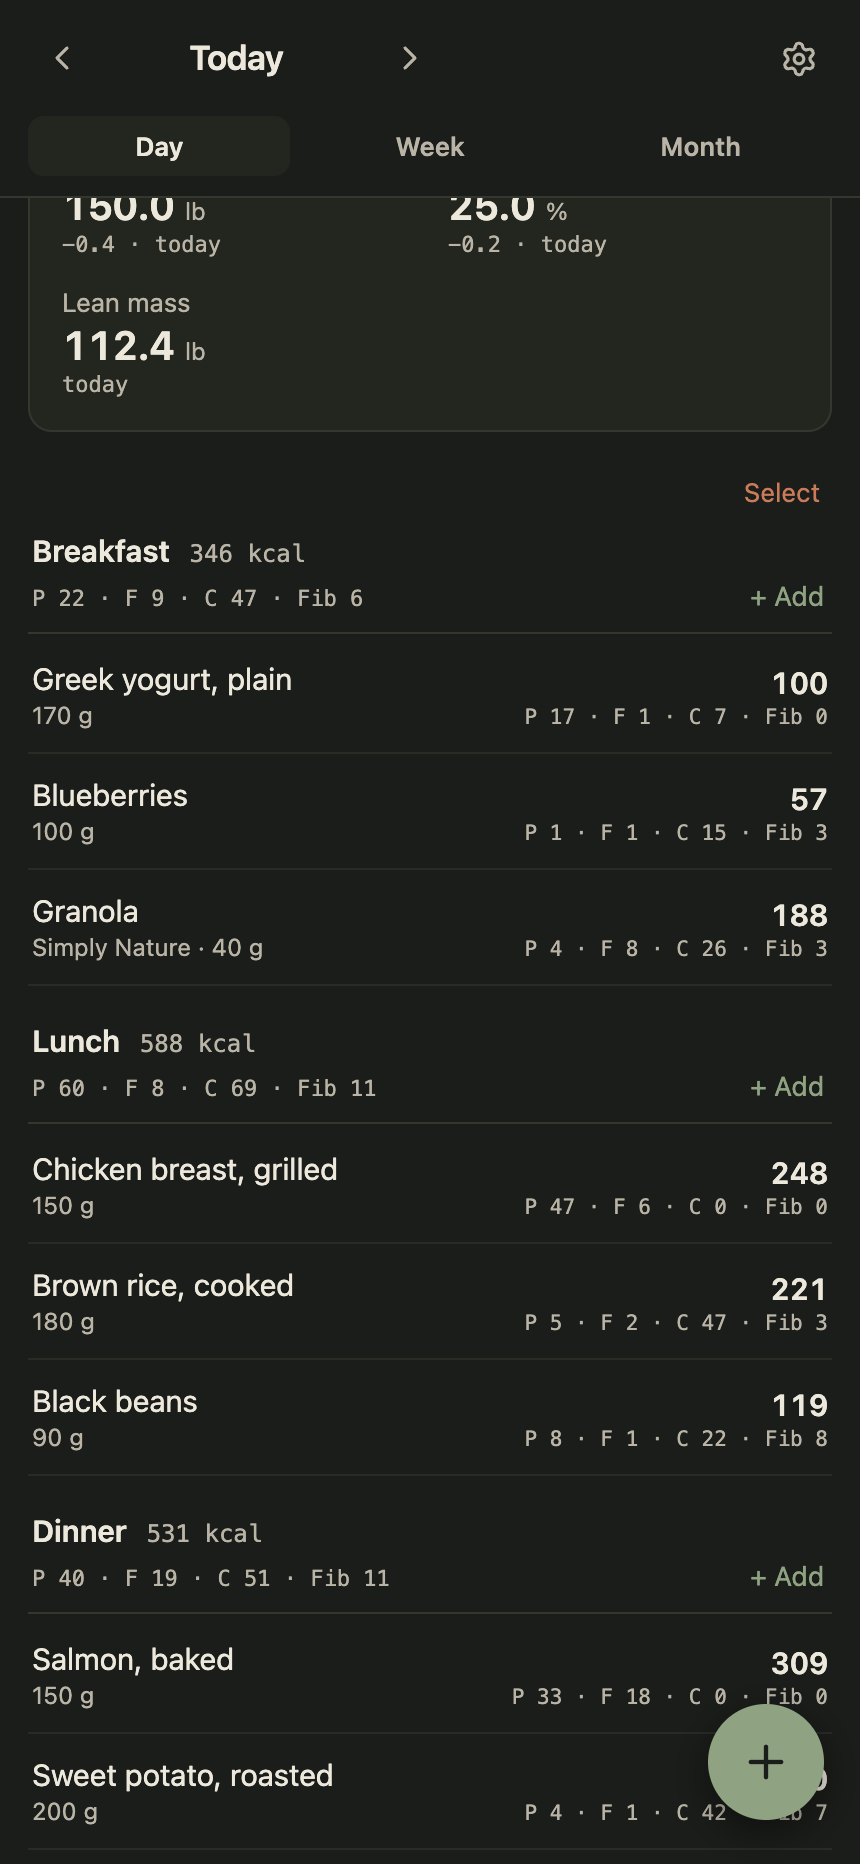
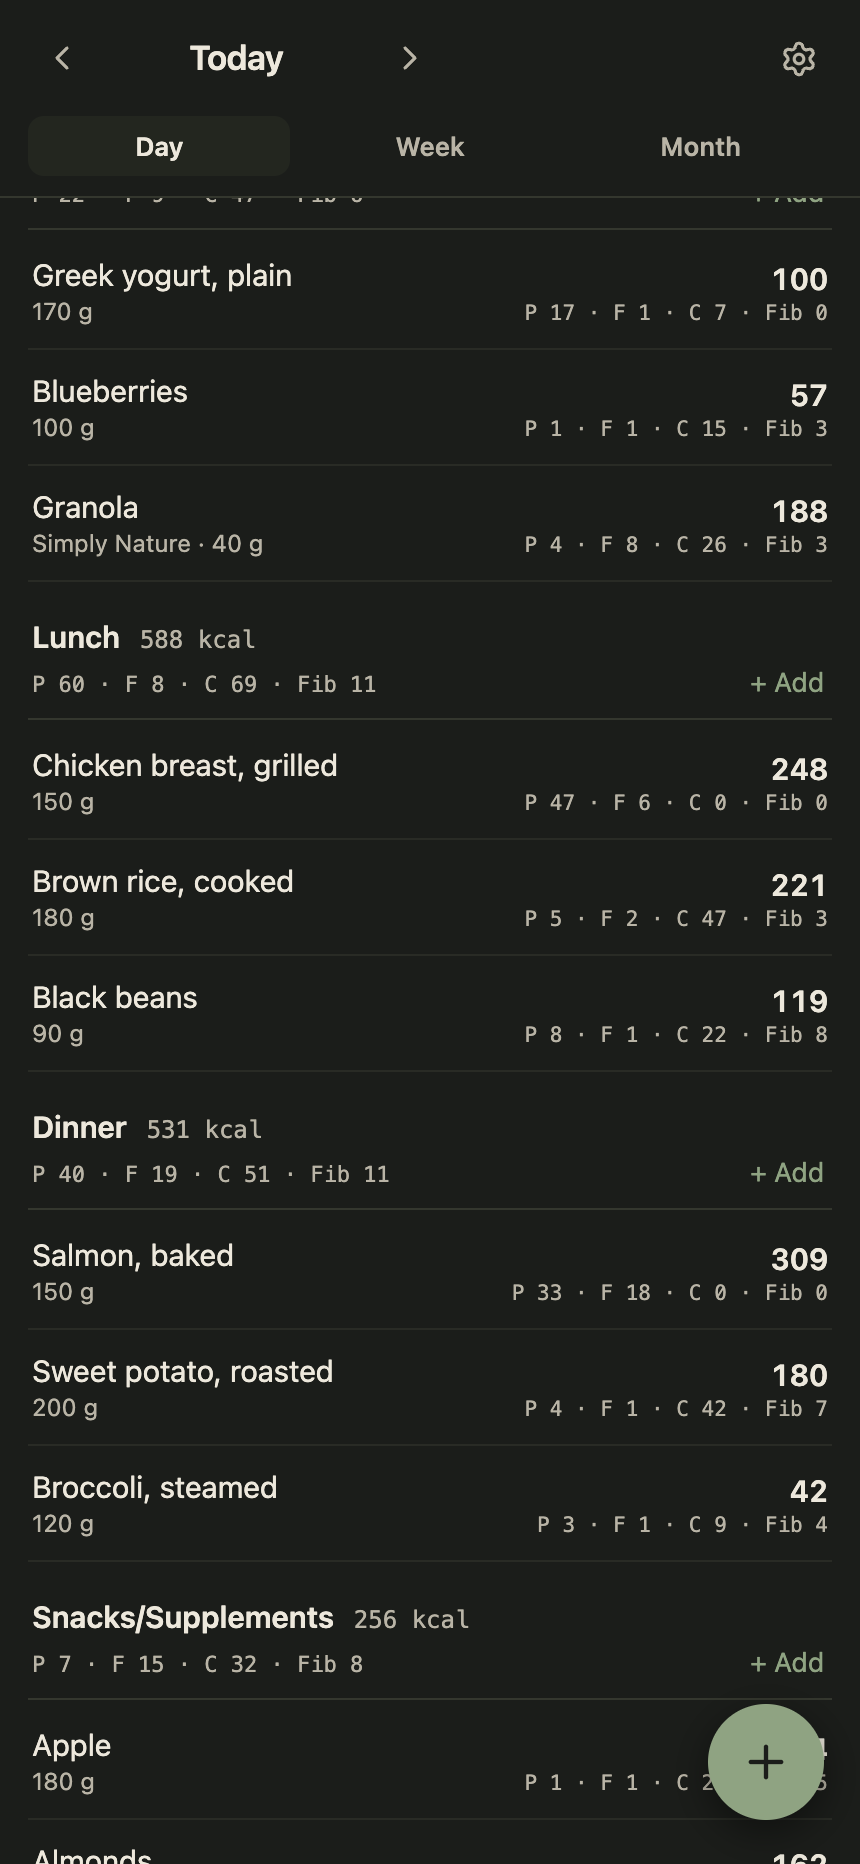
chore: drop the Withings script and the weight wording in the README

diff --git a/scripts/seed-demo.ts b/scripts/seed-demo.ts
@@ -8,8 +8,7 @@ import type { Meal, Nutrients } from '../src/types.ts'
 /**
  * Fills the development database (.data-dev, the one `npm run dev` uses)
  * with a week of demo data so the app can be screenshotted with something
- * on screen: meals with their macros, water, workouts, a few body readings
- * and some saved foods. Run with `npm run seed:demo`; it starts from an
+ * on screen: meals with their macros, water, workouts and some saved foods. Run with `npm run seed:demo`; it starts from an
  * empty database every time. Nothing here is anyone's real log.
  */
 
@@ -80,17 +79,6 @@ for (const [back, miles] of [[0, 1.4], [1, 2.1], [2, 1.2], [3, 1.8], [5, 2.4], [
 store.addAlcohol(day(2), 'wine')
 store.addAlcohol(day(5), 'beer')
 
-// The scale, as Apple Health would send it: a reading most mornings.
-store.addBodySamples([
-  { type: 'Weight', value: 151.2, unit: 'lb', date: `${day(6)}T07:02:00` },
-  { type: 'Weight', value: 150.8, unit: 'lb', date: `${day(4)}T07:10:00` },
-  { type: 'Weight', value: 150.4, unit: 'lb', date: `${day(2)}T06:58:00` },
-  { type: 'Weight', value: 150.0, unit: 'lb', date: `${day(0)}T07:05:00` },
-  { type: 'Body Fat Percentage', value: 0.252, date: `${day(2)}T06:58:00` },
-  { type: 'Body Fat Percentage', value: 0.25, date: `${day(0)}T07:05:00` },
-  { type: 'Lean Body Mass', value: 51, unit: 'kg', date: `${day(0)}T07:05:00` },
-])
-
 // A few foods saved for one-tap logging.
 for (const name of ['Rolled oats', 'Greek yogurt, plain', 'Chicken breast, grilled', 'Almonds']) {
   const f = FOODS[name]!
@@ -105,5 +93,5 @@ const note = (start: string, end: string, text: string): void => store.saveNotes
 const sunday = addDays(today, -new Date(`${today}T12:00:00`).getDay())
 note(addDays(sunday, -7), addDays(sunday, -1), 'A steady week: protein landed within a few grams of the goal every day, and fiber cleared it on all seven. Calories ran under the ceiling on the rest days and right at it on the two lifting days, which is the shape you want.\n\nWater was the weak spot, with three days under 80 oz. The dog walks and the two yoga sessions kept the rest days from being sedentary.')
 note(sunday, addDays(sunday, 6), 'One day in, and it is a good one: a training day with the carbs spent before the lift, protein three grams short, fiber met. Keep the second bottle of water earlier in the afternoon.')
-note(`${today.slice(0, 7)}-01`, addDays(`${today.slice(0, 7)}-01`, 30), 'Fourteen days logged this month. The pattern is clear and worth keeping: protein on target, fiber comfortably over, calories under on rest days. The lifting days are the only ones that press the calorie ceiling, and they should.\n\nWeight is drifting down slowly, about a pound over the two weeks, with body fat a shade lower. Nothing to change.')
+note(`${today.slice(0, 7)}-01`, addDays(`${today.slice(0, 7)}-01`, 30), 'Fourteen days logged this month. The pattern is clear and worth keeping: protein on target, fiber comfortably over, calories under on rest days. The lifting days are the only ones that press the calorie ceiling, and they should.')
 console.log(`seeded ${dir} for ${day(6)} to ${today}`)

diff --git a/src/types.ts b/src/types.ts
@@ -332,9 +332,8 @@ export interface DayView extends DayTotals {
 }
 
 /**
- * Body measurements, as Apple Health carries them from the scale (Withings
- * syncs there; an iOS Shortcut posts them to /api/body). Stored in kg and
- * percent; shown in lb.
+ * Body measurements, as Apple Health carries them (an iOS Shortcut posts
+ * them to /api/body). Stored in kg and percent; shown in lb.
  */
 export const BODY_METRICS = ['weight', 'bodyFat', 'leanMass', 'bmi'] as const
 export type BodyMetric = (typeof BODY_METRICS)[number]

diff --git a/README.md b/README.md
@@ -1,7 +1,7 @@
 # Cairn
 
-A daily log that runs on your own machine: what you ate, drank, weighed and
-did, with the numbers worked out for you. It is a web app you add to your
+A daily log that runs on your own machine: what you ate, drank and did,
+with the numbers worked out for you. It is a web app you add to your
 phone's home screen, served from a desktop over your own network and backed
 by one SQLite file. No accounts, no cloud.
 
@@ -15,7 +15,7 @@ by one SQLite file. No accounts, no cloud.
   </tr>
   <tr>
     <td><b>A day.</b> Calories and macros against the day's goals, then water, alcohol, workouts and the rest, each a card.</td>
-    <td><b>Meals.</b> The scale's latest readings, then every food logged, with its macros, grouped by meal.</td>
+    <td><b>Meals.</b> Every food logged, with its macros, grouped by meal. Tap one to edit it.</td>
     <td><b>Adding food.</b> Your saved foods for one tap, a search of the USDA and Open Food Facts databases, or type it in.</td>
   </tr>
   <tr>
@@ -45,7 +45,6 @@ npm run screenshots                # another; needs Google Chrome
 - **Food lookup**, three ways. Search the USDA FoodData Central and Open Food Facts databases. Scan a nutrition label from a photo, which a local vision model reads. Or ask for an online lookup, where a local model with a web-research tool reads the restaurant's or brand's own page.
 - **My foods.** Anything you have typed or confirmed, for one-tap logging. Saved meals log several at once.
 - **Water, alcohol, workouts, dog walks and meditation**, each its own tracker.
-- **Body.** Weight and composition, from Apple Health or a Withings import.
 - **Notes.** Two or three short paragraphs on a week or a month, written from your own numbers against your goals.
 
 Every lookup and scan produces candidates for you to check. Nothing a model
@@ -74,13 +73,6 @@ limited) and the LM Studio address and token the model features use.
 that runs `npm run preview` from this directory with `KeepAlive` on. To
 reach it from a phone, put :8210 behind Tailscale Serve and open the
 `.ts.net` address.
-
-### Withings, optional
-
-`node scripts/withings.mjs auth` signs in once and stores tokens outside the
-repo, in `~/.config/cairn/withings.json`. `probe` lists the measurements
-your account returns. Put your Withings client id and secret in that file
-first.
 
 ## Local models
 
@@ -122,6 +114,6 @@ Tests run under vitest; lint is oxlint.
 server/   api.ts (routes), store.ts (SQLite), foods.ts (USDA + Open Food Facts),
           label.ts (vision model), research.ts (online lookup), notes.ts
 src/      App.tsx, components/ (trackers, sheets, the Add flow in add/), lib/
-scripts/  deploy.sh, withings.mjs, seed-demo.ts, screenshots.mjs
+scripts/  deploy.sh, seed-demo.ts, screenshots.mjs
 docs/     screenshots/ for this README
 ```
